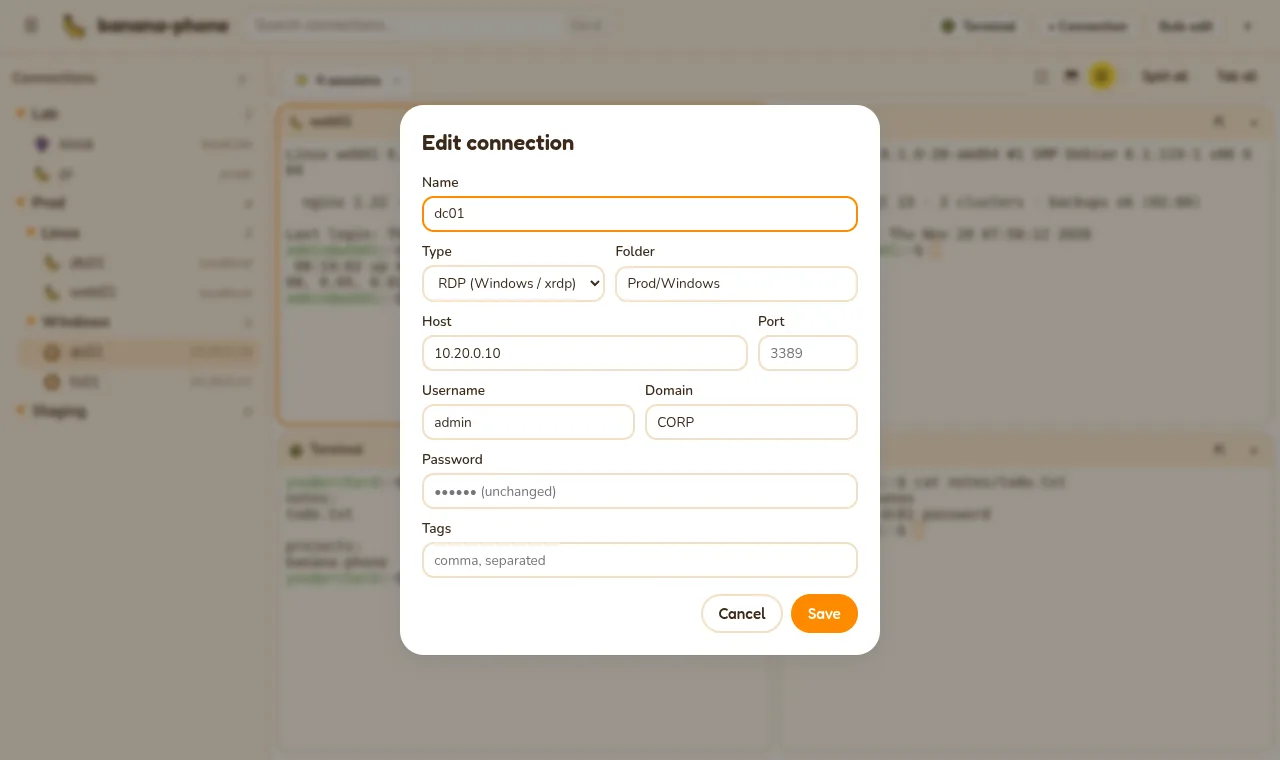
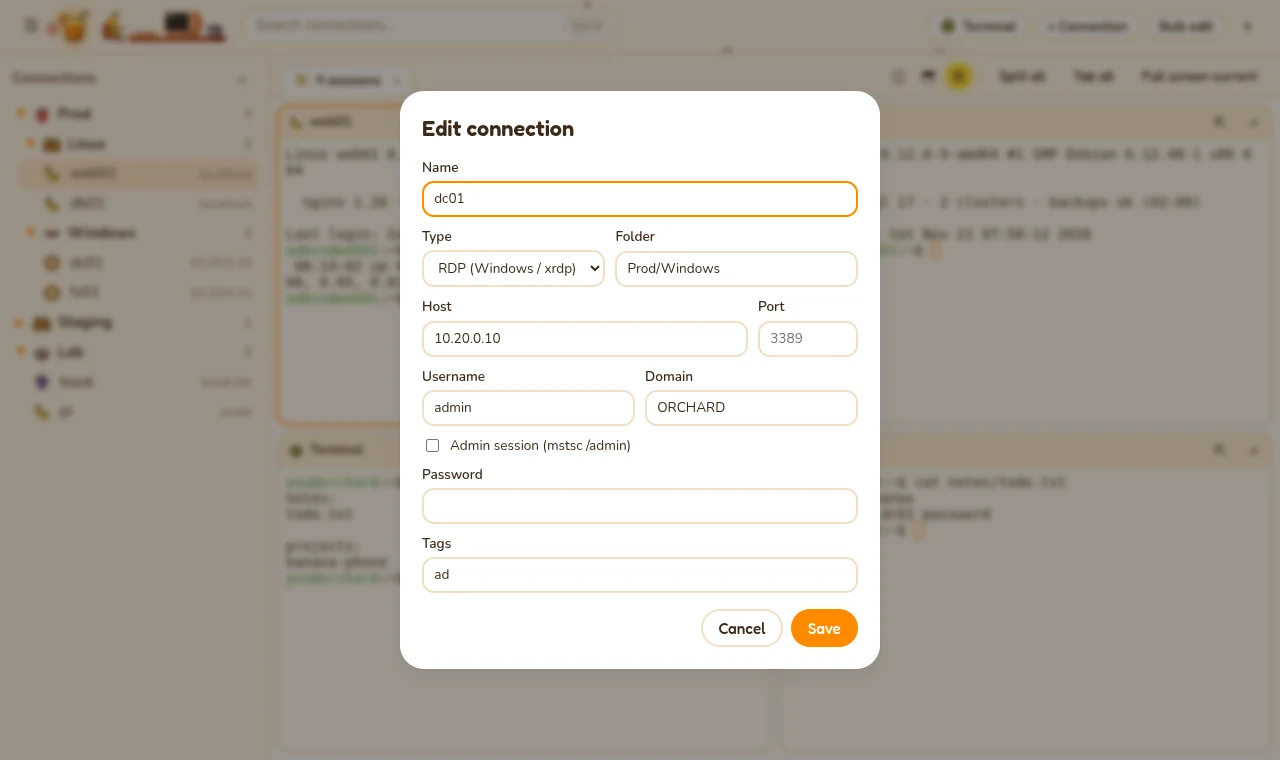
README: new screenshots and an updated feature list
Retakes the five screenshots against the current app and adds two (the
folder right-click menu and the fruit icon picker). The feature list now
covers Full screen current, drag to reorganize and folder fruit icons.

diff --git a/README.md b/README.md
@@ -4,15 +4,18 @@
 
 A small, fruity connection manager for Linux: SSH and local terminals, plus RDP (including Active Directory logins) and VNC desktops, in tabs or split views of up to four sessions. Connections live in a collapsible folder tree, are searchable with Ctrl+K, and their credentials can be bulk-edited by username or by folder.
 
-![banana-phone with four sessions in a 2×2 grid: two SSH servers and two local terminals, next to the folder tree](docs/screenshots/main.webp)
+![banana-phone with four sessions in a 2×2 grid: two SSH servers and two local terminals, next to a folder tree with fruit icons. The juice cup in the top bar is full.](docs/screenshots/main.webp)
 
 ## Features
 
-- **Tabs and splits.** Open sessions in tabs, side by side, stacked, or in a 2×2 grid. Drag the gutter between panes to resize them, and pop any session out into its own tab.
-- **Folders.** Group connections in nested folders in a collapsible sidebar (Ctrl+B hides it).
+- **Tabs and splits.** Open sessions in tabs, side by side, stacked, or in a 2×2 grid. Drag the gutter between panes to resize them, drag a pane onto another tab, and pop any session out into its own tab.
+- **Full screen current.** Ctrl+Alt+F makes the active session fill the whole screen. A faint banana at the top brings back Minimize and Back to tab.
+- **Folders.** Group connections in nested folders in a collapsible sidebar (Ctrl+B hides it). Right-click a folder to open everything in it as a split, add a subfolder, or bulk edit it.
+- **Drag to reorganize.** Drag connections and folders to reorder them or nest one folder in another; the order is saved. Move up / Move down in the right-click menu do the same from the keyboard.
+- **Folder fruit icons.** Right-click a folder → Change icon… and pick a fruit. Folders without one show a crate.
 - **Quick search.** Ctrl+K finds connections by name, host, user, folder or tag. Enter opens a result, Shift+Enter opens it in a split.
 - **Bulk credential edit.** Change the username, domain or password of every connection with a given username, or in a folder, after previewing exactly which ones will change. A backup is kept.
-- **SSH, RDP, VNC and local terminals.** RDP supports Active Directory logins (domain, user, password).
+- **SSH, RDP, VNC and local terminals.** RDP supports Active Directory logins (domain, user, password) and admin sessions, and its pane closes when you sign out of Windows.
 - **Identity checks.** SSH host keys and RDP certificates are remembered on first connect. If one changes, you're shown both fingerprints and asked whether to trust it, with Cancel as the default.
 - **Clipboard sharing** with RDP and VNC desktops.
 - **Saved passwords encrypted** with your system keyring, and never shown to the window.
@@ -23,7 +26,9 @@ A small, fruity connection manager for Linux: SSH and local terminals, plus RDP 
 |---|---|
 | ![Quick search showing four connections matching "prod"](docs/screenshots/search.webp) | ![Bulk edit dialog matching three connections with the username admin](docs/screenshots/bulk.webp) |
 | **Editing an RDP connection** | **Dark theme** |
-| ![Edit dialog for an RDP connection with host, username and Active Directory domain](docs/screenshots/edit.webp) | ![The main window in the dark theme](docs/screenshots/dark.webp) |
+| ![Edit dialog for an RDP connection with host, username, Active Directory domain and the admin session option](docs/screenshots/edit.webp) | ![The main window in the dark theme](docs/screenshots/dark.webp) |
+| **Folder right-click menu** | **Picking a folder's fruit icon** |
+| ![Right-click menu of a folder: new connection, new subfolder, open all in split, change icon, bulk edit, move up, delete](docs/screenshots/menu.webp) | ![Folder icon dialog with eleven fruit to choose from](docs/screenshots/icons.webp) |
 
 Screenshots use made-up hosts and names.
 
@@ -42,7 +47,7 @@ Download `banana-phone-<version>.AppImage` from the [latest release](https://git
 Bump `version` in `package.json`, merge to `main`, then tag that commit:
 
 ```bash
-git tag v0.1.3 && git push origin v0.1.3
+git tag v0.2.1 && git push origin v0.2.1
 ```
 
 The Release workflow runs the tests and the walkthrough check, builds the AppImage, and publishes a GitHub release with the AppImage and `requirements.txt` attached. The tag must match the version in `package.json`.
